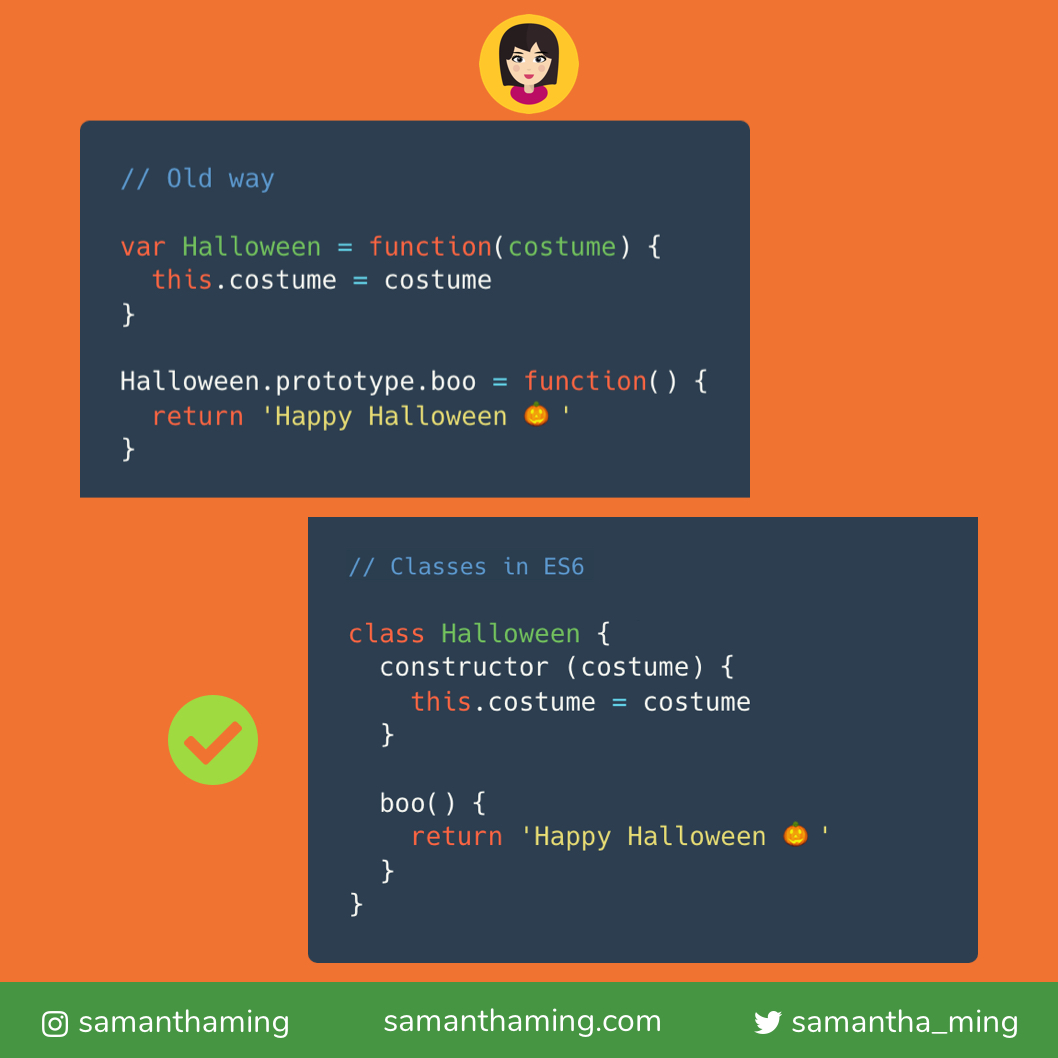
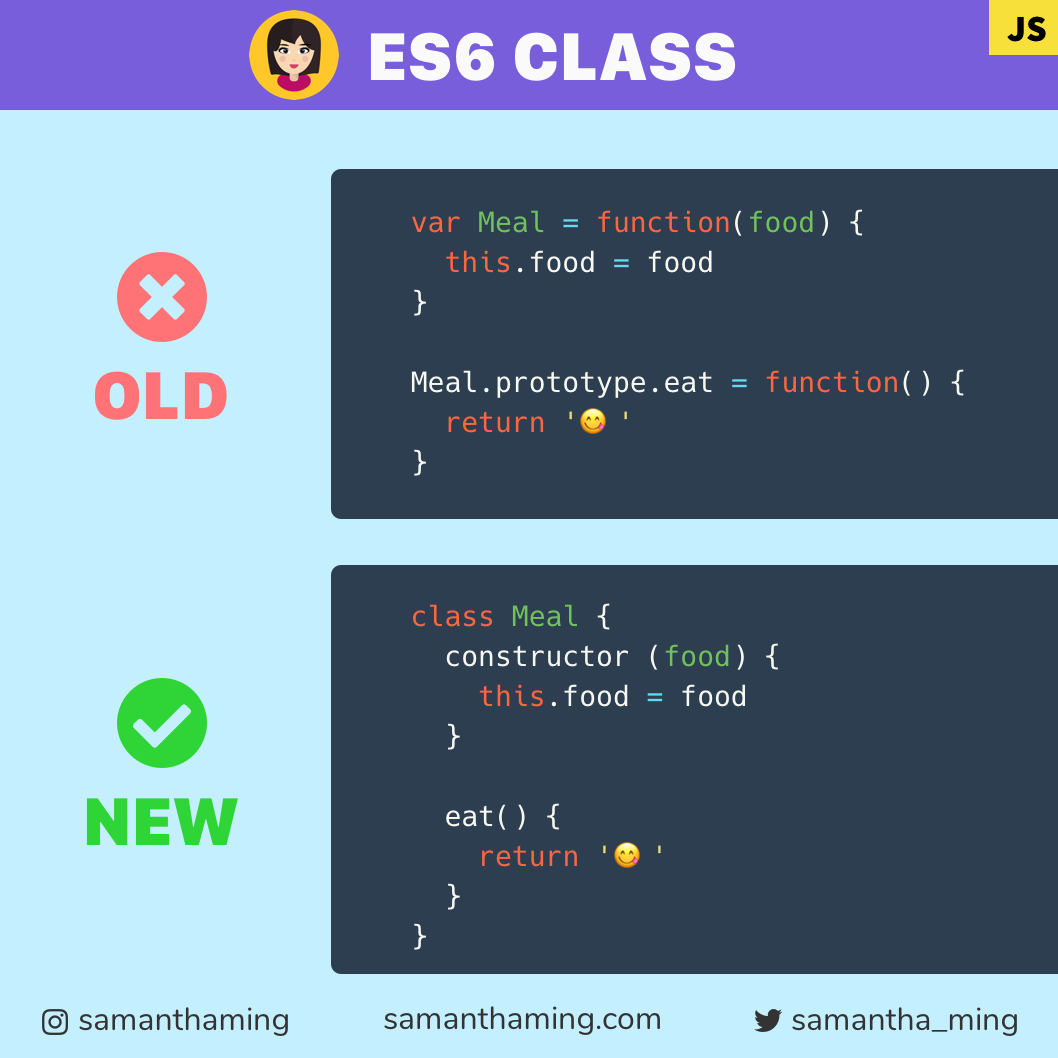
Update tidbit-39 ES6 Classes

diff --git a/articles/tidbits/39-es6-classes.md b/articles/tidbits/39-es6-classes.md
@@ -1,99 +1,176 @@
-# ES6 Classes
+# Classes in JavaScript
 
-When I say ES6 Classes, you might go YAY 🎊 JS finally introduced a new object-oriented inheritance model. Well, not exactly. It’s still using the existing prototype-based inheritance (labelled as “Old way” in the photo). But now it just look more like Object Oriented Programming (OOP). Yay, I think this syntactical sugar is GREAT!
+When I say Classes, you might go YAY 🎊 JS finally introduced a new object-oriented inheritance model. Well, not exactly. It’s still using the existing prototype-based inheritance (labeled as “Old” in the photo). But now it just looks more like Object Oriented Programming (OOP). Yay, I think this syntactical sugar is GREAT!
 
 ```javascript
 // Old way
 
-var Halloween = function(costume) {
-  this.costume = costume
-}
+var Meal = function(food) {
+  this.food = food;
+};
 
-Halloween.prototype.boo = function() {
-  return 'Happy Halloween 🎃'
-}
-
+Meal.prototype.eat = function() {
+  return '😋';
+};
 
 // Classes in ES6
 
-class Halloween {
-  constructor (costume) {
-    this.costume = costume
+class Meal {
+  constructor(food) {
+    this.food = food;
   }
 
-  boo() {
-    return 'Happy Halloween 🎃'
+  eat() {
+    return '😋';
   }
 }
 ```
 
+[[toc]]
 
 ## Defining a Class
 
-For those coming from Object Oriented Programming, then you're good. But for those new to this or just want a friendly reminder. The first step is to create our class. The keyword to use is `class`.
+For those coming from Object-Oriented Programming, then you're good. But for those new to this or just want a friendly reminder. The first step is to create our class. The keyword to use is `class`.
 
 ```javascript
-class Halloween {
-  constructor(costume) {
-    this.costume = costume.
+class Meal {
+  constructor(food) {
+    this.food = food;
   }
-  
+
   // Prototype Method
-  boo() {
-    return 'Happy Halloween 🎃'
+  eat() {
+    return '😋';
   }
-  
+
   // Static Method
-  static trickOrTreat() {
-    return '🍬🍬🍬'
+  static utensil() {
+    return '🥢';
   }
 }
 ```
 
-**Constructor**: This is a special method for initializing an instance of that class. So what that means is that whenever we create a new instance of the class, it will invoke the constructor. This is a great place to set some properties and assign parameters. For our example, we want to make sure when someone create a new Halloween instance, they have a costume in place.
+**Constructor**: This is a special method for initializing an instance of that class. So what that means is that whenever we create a new instance of the class, it will invoke the constructor. This is a great place to set some properties and assign parameters. For our example, we want to make sure when someone creates a new `Meal` instance, they have a costume in place.
 
-**Prototype Method**: A prototype method is a method that is only accessible when you create an instance of the class. This will be clear when I saw you example later.
+**Prototype Method**: A prototype method is a method that is only accessible when you create an instance of the class. This will be clear when I show you an example later.
 
 **Static Method**: A static method is something you can call without instantiating the class. More on this later.
 
-
 ## Create a Class Instance
 
-Great, now you created the class. Let's create an Instance of it using the `new` keyword.
+Great, now you created the class. Let's create an **instance** of it using the `new` keyword.
 
 ```javascript
-class Halloween { ... }
+class Meal { ... }
 
-const zombie = new Halloween('zombieCostume');
+const dumpling = new Meal('🥟');
 ```
 
 Now we can call our prototype method:
 
 ```javascript
-zombie.boo();
-// 'Happy Halloween 🎃'
+dumpling.eat();
+// '🥟'
 ```
 
 ⚠ But! you can't access static methods.
 
 ```javascript
-zombie.trickOrTreat();
+dumpling.utensil();
 // TypeError
 ```
 
-That's because static methods is not accessible by the instance. It can only be called by the class
+That's because static methods are not accessible by the instance. It can only be called by the class
 
 ```javascript
-Halloween.trickOrTreat();
-// '🍬🍬🍬'
+Meal.utensil();
+// '🥢'
 ```
-
 
 ## Static vs Instance Methods
 
-So you must be wondering when should you use a static or instance methods. Here's a very simple answer. Use static methods when you don't want to create an instance of the class. Lol, I know that's not a very satisfactory answer. Most of the time, you will see static methods used for creating utility functions for an application. Any other time, it's better to stick with an instance method.
+So you must be wondering when you should use a static or instance methods. Here's a very simple answer. Use static methods when you don't want to create an instance of the class. Lol, I know that's not a very satisfactory answer. Most of the time, you will see static methods used for creating utility functions for an application. Any other time, it's better to stick with an instance method.
 
+## No Arrow Function
+
+Another cool thing ES6 introduced is Arrow Function
+
+> [MDN](https://developer.mozilla.org/en-US/docs/Web/JavaScript/Reference/Functions/Arrow_functions): An arrow function expression is a syntactically compact alternative to a regular function expression, although without its own bindings to the this, arguments, super, or new.target keywords. Arrow function expressions are ill suited as methods, and they cannot be used as constructors.
+
+### Arrow Function has No Prototype Property
+
+So in the non-sugar way, notice we used the `function` keyword:
+
+```javascript
+var Meal = function(food) {
+  this.food = food;
+};
+
+Meal.prototype.eat = function() {
+  // <-- No Arrow Function
+  return '😋';
+};
+```
+
+The arrow function does not have a `prototype` property, so we can not use the arrow function.
+
+```javascript
+// ❌
+Meal.prototype.eat = () => '😋';
+Meal.prototype; // undefined
+```
+
+### Arrow Function has No New Operator
+
+Second thing, arrow functions can't be used as constructors.
+
+```javascript
+// ❌
+const Meal = () => {}
+
+cont rawChicken = new Meal()
+// TypeError: Meal is not a constructor
+```
+
+So here's another one where you should use the regular `function` syntax.
+
+```javascript
+// ✅
+const Meal = function(){}
+
+cont cookedChicken = new Meal()
+```
+
+## Sugar is bad for you!
+
+Some of you may argue that `class` is bad because it obscures the true nature of JS. And I think that is absolutely a fair point. Let's peel back at the intention of classes. It was introduced to make JavaScript easier to pick up 👍
+
+For those coming from an object-oriented programming language such as Ruby or Python, this will make the transition of learning JS a lot easier because of the familiar syntax. For newcomers, this will mean it's faster to ramped up and ready to go. And once you get going, hopefully, you will be encouraged to dive deeper into the JS and learn what's actually under the hood 🤓
+
+**But a spoonful of sugar makes the medicine go down...🎶**
+
+Learning a new language is hard, so if we can make this process a bit easier, I think that's a great thing. It's very easy to be overwhelmed when everything is thrown at you. It's like trying to drink from a fire hose, you end up drinking no water at all. That's why tutorials are done by steps. No one goes from a white belt to a black belt right away. You have to go through the process, it requires time.
+
+So should you employ `class`? -- well that depends on you and your team. Like I always say, there is never a right way; the right way is always it depends 😉 Let's not immediately dismiss "sugar" as bad. As developers, we should always keep an open mind to new ideas. Less judgment, more listening, and assume good intentions 😊
+
+## Community Input
+
+Please note when you use the `typeof` on a class, it will return `function`.
+
+```javascript
+class someClass {}
+
+typeof someClass; // 'function'
+```
+
+_Thanks [@ianwijma](https://dev.to/ianwijma/comment/p968)_
 
 ## Resources
 
-- [MDN Web Docs - Classes](https://developer.mozilla.org/en-US/docs/Web/JavaScript/Reference/Classes)
+- [MDN Web Docs: Classes](https://developer.mozilla.org/en-US/docs/Web/JavaScript/Reference/Classes)
+- [w3schools: Classes](https://www.w3schools.com/js/js_classes.asp)
+- [Arrow Function No No](https://wesbos.com/arrow-function-no-no)
+- [Understanding Classes in JavaScript](https://www.digitalocean.com/community/tutorials/understanding-classes-in-javascript)
+- [ExporingJS: Classes](https://exploringjs.com/es6/ch_classes.html)
+- [The Complete Guide to JavaScript Classes](https://dmitripavlutin.com/javascript-classes-complete-guide/)
+- [EloquentJS: Objects](https://eloquentjavascript.net/06_object.html)
